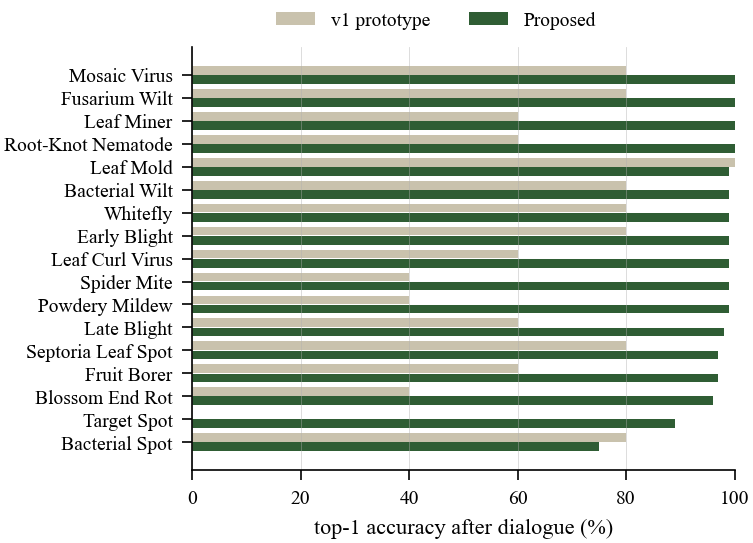
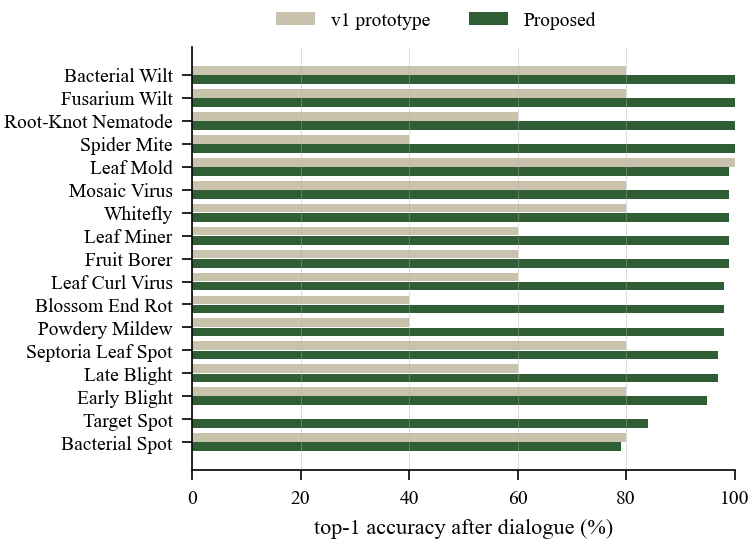
Update paper figures and desktop screenshots
Charts regenerated from the reproducible results; architecture and schema diagrams show the field profile, harvest-safe planning and PHI; new desktop screenshots captured against a throw-away demo database.

diff --git a/tomato-doctor/docs/paper/capture_screens.py b/tomato-doctor/docs/paper/capture_screens.py
@@ -1,59 +1,95 @@
-"""Captures the application screenshots used in the paper (app must run on :5057).
+"""Captures the application screenshots used in the paper (desktop layout).
+
+The app must run on :5057 against a throw-away database with demonstration outbreak
+reports, so that real consultation data is never used:
+
+    set DATABASE_PATH=%TEMP%/paper_demo.db         (or export on Linux/macOS)
+    python scripts/simulate_outbreaks.py
+    PORT=5057 python run.py
     python docs/paper/capture_screens.py
 """
+import json
 import os
+from datetime import date, timedelta
 
 from playwright.sync_api import sync_playwright
 
 BASE = os.environ.get("APP_URL", "http://127.0.0.1:5057")
 OUT = os.path.join(os.path.dirname(os.path.abspath(__file__)), "figures", "screens")
 os.makedirs(OUT, exist_ok=True)
+OOTY = {"latitude": 11.41, "longitude": 76.70}
+today = date.today()
+FIELD = {"planting_date": (today - timedelta(days=84)).isoformat(), "variety": "Arka Rakshak", "crop_type": "hybrid",
+         "area": 50, "unit": "cents", "harvesting": "yes", "last_pick": (today - timedelta(days=2)).isoformat(), "pick_every": 4}
+SOIL = {"values": {"ph": 5.3, "ec": 0.6, "oc": 0.41, "n": 610, "p": 14, "k": 95, "zn": 0.45, "ca": 1.2},
+        "texture": "loamy", "sample_date": (today - timedelta(days=40)).isoformat()}
+LATE_BLIGHT = "இலையில் கருப்பு நனைஞ்ச திட்டு, ரொம்ப வேகமா பரவுது"
+YES_WORDS = ("பஞ்சு", "திட்டுகள்", "தண்டில்", "எண்ணெய்", "fuzz", "patches", "stem", "oily", "white")
 
-with sync_playwright() as p:
-    b = p.chromium.launch(channel="chrome", headless=True)
-    ctx = b.new_context(viewport={"width": 390, "height": 2600}, device_scale_factor=3, locale="ta-IN", color_scheme="light")
+
+def new_page(browser, lang):
+    ctx = browser.new_context(viewport={"width": 1440, "height": 900}, device_scale_factor=2, color_scheme="light",
+                              geolocation=OOTY, permissions=["geolocation"])
     pg = ctx.new_page()
-    pg.goto(BASE)
-    pg.evaluate("localStorage.clear()")
-    pg.goto(BASE)
-    pg.wait_for_selector("#exampleChips .chip")
-    pg.click("#locChip")
-    pg.click("[data-district='11.41,76.7']")
-    pg.wait_for_selector("#fieldCard:not(.hidden)", timeout=30000)
-    pg.fill("#farmerInput", "இலையில் கருப்பு நனைஞ்ச திட்டு, ரொம்ப வேகமா பரவுது")
-    pg.locator("#fieldCard").screenshot(path=f"{OUT}/a_field.png")
-    pg.locator(".compose").screenshot(path=f"{OUT}/a_compose.png")
-    # pass 1: a vague description -> the dialogue view
-    pg.fill("#farmerInput", "இலையில் புள்ளிகள் இருக்கு, இலை மஞ்சளா ஆகுது")
-    pg.click("#startBtn")
-    pg.wait_for_selector("#view-consult:not(.hidden)")
-    pg.wait_for_timeout(600)
-    pg.locator("#questionCard").screenshot(path=f"{OUT}/b_question.png")
-    pg.locator("#posteriorBars").locator("xpath=..").screenshot(path=f"{OUT}/b_bars.png")
-    # pass 2: the late-blight description -> result
-    pg.click("#view-consult [data-nav=home]")
-    pg.wait_for_timeout(300)
-    pg.fill("#farmerInput", "இலையில் கருப்பு நனைஞ்ச திட்டு, ரொம்ப வேகமா பரவுது")
-    pg.click("#startBtn")
-    pg.wait_for_timeout(1500)
+    pg.add_init_script(f"""localStorage.setItem('lang', JSON.stringify('{lang}'));
+        localStorage.setItem('theme', JSON.stringify('light'));
+        localStorage.setItem('field', JSON.stringify({json.dumps(FIELD)}));
+        localStorage.setItem('soil', JSON.stringify({json.dumps(SOIL)}));""")
+    return pg
+
+
+def answer_until_result(pg):
     for _ in range(8):
         if not pg.is_visible("#view-consult"):
             break
         q = pg.inner_text("#qText")
-        yes = any(k in q for k in ("பஞ்சு", "திட்டுகள்", "தண்டில்", "எண்ணெய்"))
-        pg.click("[data-answer=yes]" if yes else "[data-answer=no]")
+        pg.click("[data-answer=yes]" if any(k in q for k in YES_WORDS) else "[data-answer=no]")
         pg.wait_for_timeout(700)
     pg.wait_for_selector("#view-result:not(.hidden)")
-    pg.click("#langToggle")
-    pg.wait_for_timeout(900)
-    pg.locator(".result-hero").screenshot(path=f"{OUT}/c_hero.png")
-    pg.locator(".card.spray").screenshot(path=f"{OUT}/d_spray.png")
-    pg.locator(".card.plan").screenshot(path=f"{OUT}/d_plan.png")
-    pg.locator(".card.why").screenshot(path=f"{OUT}/e_why.png")
-    pg.locator("#calcCard").screenshot(path=f"{OUT}/f_calc.png")
-    pg.locator(".card.treat").screenshot(path=f"{OUT}/f_treat.png")
 
-    ex = b.new_context(viewport={"width": 1280, "height": 760}, device_scale_factor=2).new_page()
+
+with sync_playwright() as p:
+    b = p.chromium.launch()
+
+    # (a) the diagnosis workspace, Tamil interface, with live field conditions
+    pg = new_page(b, "ta")
+    pg.goto(BASE)
+    pg.wait_for_selector("#fieldCard .wx", timeout=40000)
+    pg.fill("#farmerInput", LATE_BLIGHT)
+    pg.wait_for_timeout(4500)                                   # let the location toast disappear
+    pg.screenshot(path=f"{OUT}/d1_home.png")
+
+    # (b) consultation and (c) result, English interface
+    pg = new_page(b, "en")
+    pg.goto(BASE)
+    pg.wait_for_selector("#fieldCard .wx", timeout=40000)
+    pg.fill("#farmerInput", "spots on the leaves and the leaves are turning yellow")
+    pg.click("#startBtn")
+    pg.wait_for_selector("#view-consult:not(.hidden)")
+    pg.wait_for_timeout(4500)
+    pg.screenshot(path=f"{OUT}/d2_consult.png")
+    pg.click("#view-consult [data-nav=home]")
+    pg.wait_for_timeout(400)
+    pg.fill("#farmerInput", LATE_BLIGHT)
+    pg.click("#startBtn")
+    pg.wait_for_timeout(1500)
+    answer_until_result(pg)
+    pg.wait_for_timeout(1200)
+    pg.screenshot(path=f"{OUT}/d3_result.png")
+    pg.evaluate("window.scrollTo(0, document.querySelector('.card.plan').getBoundingClientRect().top + scrollY - 90)")
+    pg.wait_for_timeout(600)
+    pg.screenshot(path=f"{OUT}/d4_plan.png")
+
+    # (e) My field: crop stage, picking rhythm and soil report
+    pg.click("[data-nav-item=field]")
+    pg.wait_for_selector("#view-field:not(.hidden)")
+    pg.wait_for_selector("#soilReport .sr-list", timeout=20000)
+    pg.wait_for_timeout(800)
+    pg.screenshot(path=f"{OUT}/d5_field.png")
+
+    # expert console
+    ex = b.new_context(viewport={"width": 1280, "height": 760}, device_scale_factor=2, color_scheme="light").new_page()
+    ex.add_init_script("localStorage.setItem('theme', JSON.stringify('light'));")
     ex.goto(BASE + "/expert?shot=1#graph")
     ex.wait_for_timeout(6000)
     ex.fill("#graphSearch", "Late Blight")
@@ -70,7 +106,4 @@ with sync_playwright() as p:
     ex.wait_for_timeout(4000)
     ex.locator("#obMap").screenshot(path=f"{OUT}/g_map.png")
     b.close()
-from PIL import Image
-im = Image.open(f"{OUT}/a_field.png")
-im.crop((0, 0, im.width, min(im.height, 1880))).save(f"{OUT}/a_field_top.png")
 print("screens saved to", OUT)

diff --git a/tomato-doctor/docs/paper/figures/arch.tex b/tomato-doctor/docs/paper/figures/arch.tex
@@ -8,26 +8,26 @@
   lbl/.style={font=\sffamily\tiny, fill=white, inner sep=0.9pt, align=center, text=black!85},
 ]
 % ---------------- headers
-\node[hdr] at (1.35, 0.55) {Farmer app};
+\node[hdr] at (1.35, 0.55) {Farmer workspace};
 \node[hdr] at (5.3, 0.55) {Evidence extraction};
 \node[hdr] at (9.7, 0.55) {Reasoning core};
 \node[hdr] at (14.1, 0.55) {Output to the farmer};
 
 % ---------------- inputs (one tall box)
 \node[box=green!55!black, text width=2.35cm, minimum height=7.75cm, anchor=north] (in) at (1.35, 0.15) {};
-\node[align=left, anchor=north west, text width=2.25cm] at (0.2, -0.05) {\textbf{Web app (PWA)}\\[-1pt]{\tiny Tamil-first, installable}};
+\node[align=left, anchor=north west, text width=2.25cm] at (0.2, -0.05) {\textbf{Web application}\\[-1pt]{\tiny Tamil-first; desktop and phone}};
 \tikzset{inl/.style={align=left, anchor=west, text width=2.2cm, inner sep=0pt}}
 \node[inl] at (0.3, -1.2) {\textbullet~Free text\\[-1pt]{\tiny\ \ Tamil, English, Tanglish}};
 \node[inl] at (0.3, -2.6) {\textbullet~Voice\\[-1pt]{\tiny\ \ recorded speech}};
 \node[inl] at (0.3, -4.35) {\textbullet~Leaf photo\\[-1pt]{\tiny\ \ camera or gallery}};
-\node[inl] at (0.3, -6.05) {\textbullet~Location\\[-1pt]{\tiny\ \ GPS or district}};
+\node[inl] at (0.3, -6.05) {\textbullet~Location, field\\[-1pt]{\tiny\ \ GPS; soil report, crop}\\[-3pt]{\tiny\ \ stage, picking rhythm}};
 \node[inl] at (0.3, -7.2) {\textbullet~Tap-to-pick\\[-1pt]{\tiny\ \ symptoms, severity, sprays}};
 
 % ---------------- evidence extraction
 \node[box=blue, anchor=north] (nlu) at (5.3, 0.15) {\textbf{Concept NLU}\\ concept lexicon, Tamil stems,\\ negation scope,\\ IDF-weighted coverage};
 \node[box=blue, anchor=north] (llm) at (5.3, -1.75) {\textbf{LLM entity linker} {\tiny (Gemini)}\\ transcript; KG symptom ids,\\ severity, \% affected, sprays};
 \node[box=blue, anchor=north] (cnn) at (5.3, -3.5) {\textbf{Leaf classifier}\\ MobileNetV3 (ONNX), calibrated;\\ blur / exposure / no-leaf checks};
-\node[box=blue, anchor=north] (ctx) at (5.3, -5.25) {\textbf{Field context} {\tiny (Open-Meteo)}\\ 7-day hourly weather $\to$ risk\\ models; outbreak reports $\leq$30\,km};
+\node[box=blue, anchor=north] (ctx) at (5.3, -5.25) {\textbf{Field context} {\tiny (Open-Meteo)}\\ hourly weather $\to$ risk models;\\ outbreaks $\leq$30\,km; soil and\\ crop-stage prior factors};
 
 % ---------------- reasoning core
 \node[box=orange, anchor=north, minimum height=2.6cm, text width=3.5cm] (eng) at (9.7, 0.15) {\textbf{Bayesian diagnosis}\\[1pt] $P(d|E)\propto P(d)\prod_{e}P(e|d)$\\ over 17 diseases + \textsc{unknown}\\[4pt] \textbf{Question selection}\\[1pt] $\arg\max_s \mathrm{EIG}(s)\,(1-c_s)$};
@@ -36,7 +36,7 @@
 % ---------------- outputs
 \node[box=red, anchor=north] (q) at (14.1, 0.15) {\textbf{Follow-up question}\\ yes / no / not sure, read aloud};
 \node[box=red, anchor=north] (dx) at (14.1, -1.4) {\textbf{Diagnosis + explanation}\\ probability, urgency, reference\\ photos, likelihood-ratio chain};
-\node[box=red, anchor=north] (adv) at (14.1, -3.5) {\textbf{Weather-aware advisory}\\ spray windows (rain, wind, heat),\\ severity-adaptive plan,\\ FRAC/IRAC rotation, dose\\ calculator, dated schedule};
+\node[box=red, anchor=north] (adv) at (14.1, -3.5) {\textbf{Field-aware advisory}\\ spray windows (rain, wind, heat),\\ severity-adaptive plan, FRAC/IRAC\\ rotation, harvest-safe schedule,\\ soil fixes, fertiliser plan,\\ prevention alerts};
 
 % ---------------- learning band
 \node[box=violet, anchor=north] (exp) at (5.3, -8.15) {\textbf{Expert console}\\ teach lay-terms, approve edges,\\ outbreak map, weight audit};
@@ -47,7 +47,7 @@
 \draw[flow] (in.east |- 0,-1.0) -- node[lbl, above]{text} (nlu.west |- 0,-1.0);
 \draw[flow] (in.east |- 0,-2.4) -- node[lbl, above]{audio} (llm.west |- 0,-2.4);
 \draw[flow] (in.east |- 0,-4.15) -- node[lbl, above]{image} (cnn.west |- 0,-4.15);
-\draw[flow] (in.east |- 0,-5.85) -- node[lbl, above]{lat, lon} (ctx.west |- 0,-5.85);
+\draw[flow] (in.east |- 0,-5.85) -- node[lbl, above]{lat, lon, field} (ctx.west |- 0,-5.85);
 \draw[flow] (nlu.south) -- node[lbl, right]{transcript} (llm.north);
 
 % ---------------- evidence -> engine (bus)

diff --git a/tomato-doctor/docs/paper/figures/kg_schema.tex b/tomato-doctor/docs/paper/figures/kg_schema.tex
@@ -9,7 +9,7 @@
 \node[ent=gray] (c) at (-3.3,1.9) {\textbf{Crop}\\ {\tiny tomato}};
 \node[ent=violet] (w) at (3.3,1.9) {\textbf{SeasonCondition}\\ {\tiny 3: temp./RH range}};
 \node[ent=blue] (s) at (-3.3,-2.2) {\textbf{Symptom}\\ {\tiny 45: plant part, question}\\[-2pt] {\tiny (ta/en), observation cost}};
-\node[ent=red] (t) at (3.3,-2.2) {\textbf{Treatment}\\ {\tiny 30: type, dose, mode,}\\[-2pt] {\tiny FRAC/IRAC, rain-fast h}};
+\node[ent=red] (t) at (3.3,-2.2) {\textbf{Treatment}\\ {\tiny 30: type, dose, mode,}\\[-2pt] {\tiny FRAC/IRAC, rain-fast h, PHI}};
 \node[ent=gray] (i) at (0,-4.3) {\textbf{ConfirmationImage}\\ {\tiny 27: url, verified\_count}};
 \node[ent=green!55!black] (l) at (-3.3,-4.3) {\textbf{LayTerm}\\ {\tiny 247: ta 100, en 96, tl 51}};
 
